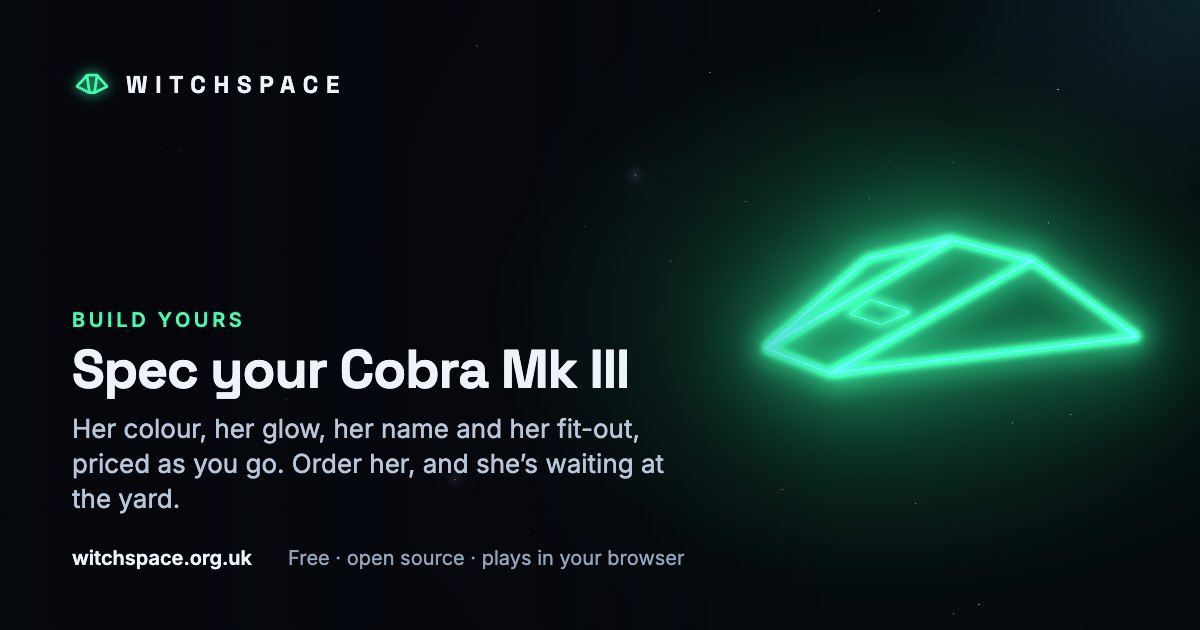
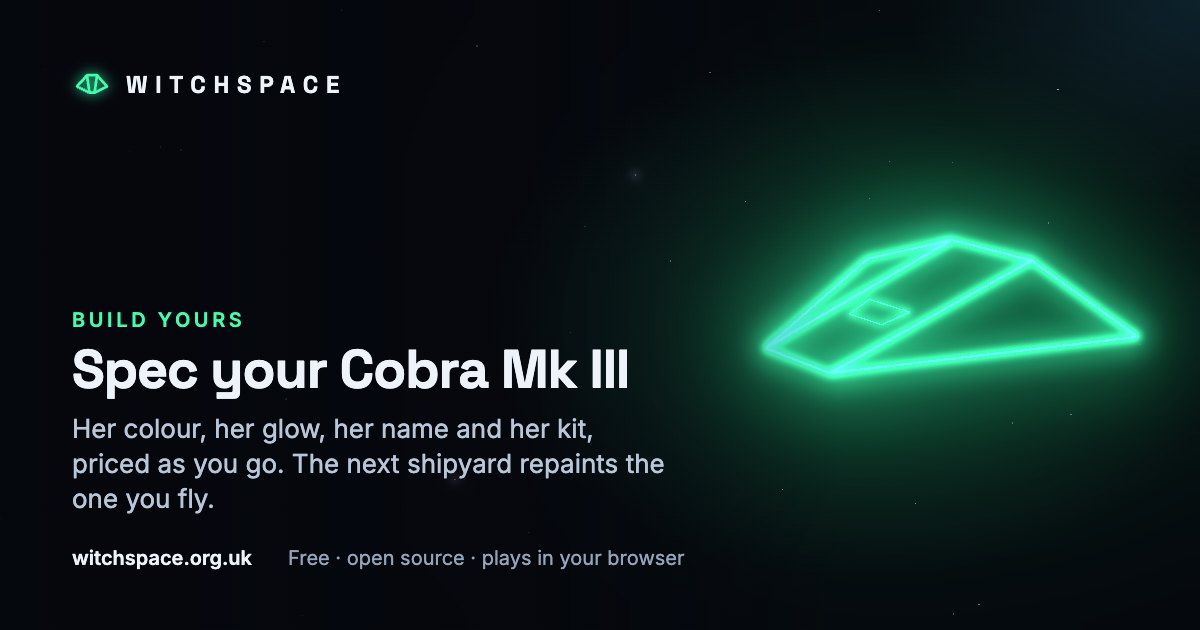
Configurator: the Cobra is a repaint at the yard's own price, kit a station shopping list; names on her papers, not painted on; on a phone she steps back as you scroll, and Fly her now has room (Mark)

Changed region(s): [[0.2467, 0.6635, 0.555, 0.754], [0.0617, 0.7841, 0.185, 0.8143]]

diff --git a/src/site/build.ts b/src/site/build.ts
@@ -1,6 +1,6 @@
 import { EDITIONS, editionNo, type Edition } from '../content/editions';
 import type { ShipDef } from '../content/types';
-import { checkSpec, cleanName, editionSpec, defaultSpec, depositFor, fitScale, GLOWS, LUXURIES, ORDERABLE, ORDERABLE_LUXURIES, standardKit, PALETTE, priceLines, productionHours, quote, TRIM_PRICE, UPGRADES, type GlowId, type Spec } from '../game/shipyard';
+import { checkSpec, cleanName, editionSpec, defaultSpec, depositFor, fitScale, GLOWS, LUXURIES, ORDERABLE, ORDERABLE_LUXURIES, repaintLabour, repaintQuote, standardKit, standardLaser, PALETTE, priceLines, productionHours, quote, TRIM_PRICE, UPGRADES, type GlowId, type Spec } from '../game/shipyard';
 import { PLAYER_LASERS, type LaserId } from '../game/weapons';
 import { API, refresh, sessionToken, signedIn } from '../net/account';
 import { accountSpec, editionCounts } from '../net/shipyard';
@@ -24,6 +24,27 @@ const LASERS = Object.keys(PLAYER_LASERS) as LaserId[];
 const cr = (n: number) => `${n.toLocaleString('en-GB')} Cr`;
 const cost = (n: number) => (n ? cr(n) : 'Included');
 const colourOf = (c: string | null) => PALETTE.find((p) => p.colour === c);
+
+// --- A repaint, for the ship everyone already flies -------------------------------------------
+// Every commander starts in a Cobra Mk III (hullOf), so for her the spec is a repaint, not a new hull
+// (Mark, 12 Nov): the yard repaints the one you fly at the game's own price (repaintQuote), and the kit
+// is a shopping list for any station. The yard picks the spec up as a repaint offer (Game dev).
+const REPAINT = def.id === 'cobra-mk3';
+/** She as she leaves the factory: the repaint's starting point (the yard quotes against your actual paint). */
+const FACTORY = { colour: def.style.lineColor, glow: 'standard' as GlowId, trim: null };
+const repaintOf = (s: Spec) => repaintQuote(def, { colour: s.colour, glow: s.glow, trim: s.trim }, FACTORY);
+/** What the spec adds that a Cobra fresh from the factory hasn't got, at the station's price. */
+function kitList(s: Spec): { name: string; price: number }[] {
+  const k = fitScale(def);
+  const free = standardKit(def);
+  return [
+    ...(s.laser !== standardLaser(def) ? [{ name: PLAYER_LASERS[s.laser].name, price: PLAYER_LASERS[s.laser].price }] : []),
+    ...(s.rear ? [{ name: `${PLAYER_LASERS[s.rear].name} at the rear`, price: PLAYER_LASERS[s.rear].price }] : []),
+    ...s.upgrades.filter((id) => !free.includes(id)).map((id) => UPGRADES.find((e) => e.id === id)!).filter(Boolean).map((e) => ({ name: e.name, price: e.price })),
+    ...s.luxuries.map((id) => LUXURIES.find((l) => l.id === id)!).filter(Boolean).map((l) => ({ name: l.name, price: l.price })),
+  ].map((x) => ({ ...x, price: Math.round(x.price * k) }));
+}
+const kitTotal = (s: Spec) => kitList(s).reduce((sum, x) => sum + x.price, 0);
 
 // --- The spec, and the link that carries it -------------------------------------------------
 
@@ -159,11 +180,17 @@ function summary(s: Spec = spec): string {
 
 function orderStep(): string {
   const total = quote(def, spec);
-  return `<h2>Her name <span>painted on, 24 letters at most</span></h2>
+  const kit = kitList(spec);
+  const prices = REPAINT
+    ? `<p class="build-order-total"><span>Repaint your ${escapeHtml(def.name)}</span><b>${cr(repaintOf(spec))}</b></p>
+    ${kit.length ? `<p class="build-order-total kit"><span>Fit at any station: ${kit.map((x) => escapeHtml(x.name)).join(' · ')}</span><b>${cr(kitTotal(spec))}</b></p>` : ''}
+    <p class="build-order-new">Or a new one from the yard: ${cr(total)}. Yards don’t sell her outright yet.</p>`
+    : `<p class="build-order-total"><span>Price</span><b>${cr(total)}</b></p>`;
+  return `<h2>Her name <span>on her papers, her manual and your clips. 24 letters at most.</span></h2>
     <input class="build-name" id="build-name" maxlength="24" placeholder="Halcyon, Brass Neck, Last Orders…" value="${escapeHtml(spec.name)}" aria-label="Her name" />
     <h2>Your ${escapeHtml(def.name)}</h2>
     ${summary()}
-    <p class="build-order-total"><span>Price</span><b>${cr(total)}</b></p>
+    ${prices}
     ${def.concept ? `<p class="build-order-total"><span>Deposit, a tenth, refundable until she’s ready</span><b>${cr(depositFor(total))}</b></p>` : ''}
     <p class="connect-buttons"><button type="button" class="button primary" id="build-order">${def.concept ? 'Order her' : 'Save her for the yard'}</button> <button type="button" class="button ghost" id="build-share" data-share data-share-title="My ${escapeHtml(def.name)}">Share your spec</button></p>
     <p class="build-note" id="build-ordered">${note()}</p>
@@ -178,7 +205,7 @@ function editionView(e: Edition): string {
     <p>${escapeHtml(e.blurb)}</p>
     ${summary(editionSpec(e))}
     <p class="build-order-total"><span>Numbered 001 to ${editionNo(e.limit)}</span><b>${!n ? `${e.limit} in all` : n < e.limit ? `${n} of ${e.limit} signed over` : `All ${e.limit} signed over`}</b></p>
-    <h2>Her name <span>painted beside her number</span></h2>
+    <h2>Her name <span>beside her number, on her papers</span></h2>
     <input class="build-name" id="edition-name" maxlength="24" placeholder="Nightjar, Quiet Hours, Last Light…" value="${escapeHtml(editionName)}" aria-label="Her name" />
     <p class="connect-buttons"><button type="button" class="button primary" id="build-share" data-share data-share-title="${escapeHtml(shareTitle(e))}">Share her</button> <a class="button ghost" href="/ships/${def.id}/${e.id}/">The ${escapeHtml(e.name)}, in full</a> <button type="button" class="button ghost" data-edition="">Spec your own instead</button></p>
     <p class="build-note">The maker sets everything but her name, and each one is finished by hand, in about ${days} days. If you have to ask, you can’t afford one. Special editions are by invitation: for now, the maker signs them over to the people who build Witchspace. <a href="/get-involved/">Get involved</a>.</p>`;
@@ -223,7 +250,9 @@ function note(): string {
   if (w) return `You have a${w.ship === def.id ? '' : 'nother'} ${escapeHtml(shipName(w.ship))} spec waiting at the yard${w.name ? `: “${escapeHtml(w.name)}”` : ''}. Ordering this one replaces it.`;
   return def.concept
     ? `Nothing is paid here. Dock at any shipyard and your spec is there: the deposit is one tap, in credits. ${escapeHtml(def.manufacturer ?? 'The yard')} then finish her for you, in about ${days} days. ${where}`
-    : `Nothing is paid here. Shipyards will sell the ${escapeHtml(def.name)} outright soon; your spec waits at the yard until they do. ${where}`;
+    : REPAINT
+      ? `Nothing is paid here. At the next shipyard, the yard repaints your ${escapeHtml(def.name)} in this spec. Kit is on your list at the station. ${where}`
+      : `Nothing is paid here. Shipyards will sell the ${escapeHtml(def.name)} outright soon; your spec waits at the yard until they do. ${where}`;
 }
 
 // --- Drawing it -----------------------------------------------------------------------------
@@ -261,6 +290,20 @@ function bar() {
   const next = STEPS[i + 1];
   // The spec sheet: what she costs, part by part, as tiles (on a phone, just the total).
   const n = (x: number) => x.toLocaleString('en-GB');
+  if (REPAINT) {
+    const labour = repaintLabour(def, spec.glow);
+    const repaint = repaintOf(spec);
+    $('#build-bar').innerHTML = `<div class="build-bar-in">
+    <dl class="build-sheet">
+      <div class="part"><dt>Yard labour</dt><dd>${n(labour)}</dd></div>
+      <div class="part"><dt>Finish</dt><dd>${n(repaint - labour)}</dd></div>
+      <div class="part"><dt>Kit, at a station</dt><dd>${n(kitTotal(spec))}</dd></div>
+      <div class="total"><dt>Repaint your ${escapeHtml(def.name)}</dt><dd>${cr(repaint)}</dd></div>
+    </dl>
+    ${next ? `<button type="button" class="button primary" data-step="${next[0]}">${next[1]} →</button>` : ''}
+  </div>`;
+    return;
+  }
   $('#build-bar').innerHTML = `<div class="build-bar-in">
     <dl class="build-sheet">
       <div class="part"><dt>Hull</dt><dd>${n(p.hull)}</dd></div>
@@ -271,6 +314,16 @@ function bar() {
     ${next ? `<button type="button" class="button primary" data-step="${next[0]}">${next[1]} →</button>` : ''}
   </div>`;
 }
+
+// On a phone, she steps back a little while you scroll through the choices, and comes back at the top or on a new step.
+const page = $('.build-page');
+const phone = matchMedia('(max-width: 860px)');
+let from = 0;
+function stage(reset = false) {
+  if (reset) from = scrollY;
+  page.classList.toggle('shrunk', phone.matches && scrollY > 40 && scrollY - from > 60);
+}
+addEventListener('scroll', () => stage(), { passive: true });
 
 function render() {
   $('#build-models').innerHTML = models();
@@ -314,6 +367,9 @@ document.addEventListener('click', (e) => {
     step = d.step as Step;
     render();
     if (b.closest('#build-bar')) $('#build-steps').scrollIntoView({ behavior: 'smooth', block: 'start' });
+    // A new step: she's back to full size until you scroll on through it (after the smooth scroll settles).
+    stage(true);
+    setTimeout(() => stage(true), 600);
   } else if (d.colour) change(() => (spec.colour = d.colour!));
   else if (d.trim) change(() => (spec.trim = d.trim!));
   else if (d.twoTone !== undefined) change(() => (spec.trim = d.twoTone ? (spec.trim ?? ORDERABLE.find((p) => p.colour !== spec.colour)!.colour) : null));
@@ -382,6 +438,12 @@ async function order() {
     return;
   }
   const total = quote(def, spec);
+  if (REPAINT) {
+    say.innerHTML = `<b>Saved for the yard.</b> At the next shipyard, the yard repaints your ${escapeHtml(def.name)} in this spec. Kit is on your list at the station.${account ? ' It’s waiting on any device you’re signed in on.' : signedIn() ? ' It’s in this browser; your account didn’t answer, so save again later to have it on your other devices too.' : ' It’s in this browser. Sign in below to have it on your other devices too.'}`;
+    say.classList.add('done');
+    button.textContent = 'Saved ✓';
+    return;
+  }
   say.innerHTML = `<b>She’s on order.</b> Dock at any shipyard${def.concept ? ` and your ${escapeHtml(def.name)} is waiting for your deposit of ${cr(depositFor(total))}` : ' and your spec is waiting'}${account ? ', on any device you’re signed in on' : signedIn() ? ', in this browser. Your account didn’t answer, so order again later to have her waiting on your other devices too' : ', in this browser. Sign in below to have her waiting on your other devices too'}.`;
   say.classList.add('done');
   button.textContent = 'Ordered ✓';
@@ -406,7 +468,7 @@ if (MINE.length)
     });
 
 // Signed in: what's waiting on your account, and a sign-in box on the order step for everyone else.
-const box = signInBox($('#account'), { why: 'Signed in, your order reaches the game on every device, the Home Screen app included.', callsignWhy: 'it’s how other pilots know you.' }, () => void account());
+const box = signInBox($('#account'), { why: `Signed in, your ${REPAINT ? 'spec' : 'order'} reaches the game on every device, the Home Screen app included.`, callsignWhy: 'it’s how other pilots know you.' }, () => void account());
 
 async function account() {
   if (signedIn()) {

diff --git a/tools/ships.ts b/tools/ships.ts
@@ -525,7 +525,7 @@ function editionsCard(editions: EditionCard[], ship: string): string {
         <div><dt>Fitted</dt><dd>${e.fit.map(esc).join(', ')}</dd></div>
         <div><dt>Aboard</dt><dd>${e.luxuries.map(esc).join(', ')}</dd></div>
       </dl>
-      <p class="edition-count" data-edition="${esc(e.id)}" data-limit="${e.limit}">Numbered 001 to ${String(e.limit).padStart(3, '0')}, each painted beside its name.</p>
+      <p class="edition-count" data-edition="${esc(e.id)}" data-limit="${e.limit}">Numbered 001 to ${String(e.limit).padStart(3, '0')}, each beside her name on her papers.</p>
       <p class="edition-price"><b>By invitation</b> · signed over to the people who build Witchspace.</p>
       <p class="edition-see"><a class="button ghost small" href="/ships/${esc(ship)}/${esc(e.id)}/">See the ${esc(e.name)} →</a> <a class="button ghost small" href="/ships/${esc(ship)}/build/#edition=${esc(e.id)}">Name yours</a></p>
     </article>`,
@@ -578,11 +578,15 @@ export function manualPage(s: ShipFile, m: ManualData) {
 /** The configurator: spec her as you would a new car, then order her for the yard (docs/design/ship-configurator.md). The choices and prices come from the game's own code (src/site/build.ts). */
 export function buildPage(s: ShipFile, names: Record<string, string>) {
   const def = JSON.stringify(s).replace(/</g, '\\u003c');
+  // Every commander already flies a Cobra Mk III, so hers is a repaint (Mark, 12 Nov; src/site/build.ts REPAINT).
+  const repaint = s.id === 'cobra-mk3';
   return {
-    card: { ship: s.id, kicker: 'Build yours', title: `Spec your ${s.name}`, sub: 'Her colour, her glow, her name and her fit-out, priced as you go. Order her, and she’s waiting at the yard.' },
+    card: { ship: s.id, kicker: 'Build yours', title: `Spec your ${s.name}`, sub: repaint ? 'Her colour, her glow, her name and her kit, priced as you go. The next shipyard repaints the one you fly.' : 'Her colour, her glow, her name and her fit-out, priced as you go. Order her, and she’s waiting at the yard.' },
     schema: [{ '@type': 'WebApplication', name: `${s.name} configurator`, applicationCategory: 'GameApplication', about: { '@type': 'CreativeWork', name: s.name, url: `https://witchspace.org.uk/ships/${s.id}/` }, isPartOf: { '@type': 'VideoGame', name: 'Witchspace', url: 'https://witchspace.org.uk/play/' } }],
     title: `Build your ${s.name} · Ships · Witchspace`,
-    description: `Spec your own ${s.name}: her colour, glow, trim, name and fit-out, priced as you go. Order her, and the shipyard has her ready for your deposit when you next dock.`,
+    description: repaint
+      ? `Spec your own ${s.name}: her colour, glow, trim, name and kit, priced as you go. Every commander flies one, so the next shipyard repaints yours in this spec.`
+      : `Spec your own ${s.name}: her colour, glow, trim, name and fit-out, priced as you go. Order her, and the shipyard has her ready for your deposit when you next dock.`,
     content: `<section class="section ship-page build-page" style="--hull:${esc(s.style?.lineColor ?? '#7fd4ff')}">
   <a class="back" href="/ships/${esc(s.id)}/">← The ${esc(s.name)}</a>
   <div class="build">
@@ -597,7 +601,7 @@ export function buildPage(s: ShipFile, names: Record<string, string>) {
     <div class="build-panel">
       <p class="kicker">${esc(roleLine(s))}</p>
       <h1>Spec your ${esc(s.name)}</h1>
-      <p class="lede">${s.concept ? `${esc(s.manufacturer ?? 'Her makers')} build her to order. Spec her here, and the deposit is one tap at the next shipyard you dock at.` : `Spec her here, and she’s waiting at the next shipyard you dock at.`}</p>
+      <p class="lede">${s.concept ? `${esc(s.manufacturer ?? 'Her makers')} build her to order. Spec her here, and the deposit is one tap at the next shipyard you dock at.` : repaint ? `You already fly one. Spec her here, and the next shipyard you dock at repaints her in it.` : `Spec her here, and she’s waiting at the next shipyard you dock at.`}</p>
       <div id="build-models"></div>
       <nav class="build-steps" id="build-steps" aria-label="Steps"></nav>
       <div id="build-options"></div>
@@ -651,7 +655,7 @@ export function editionPage(s: ShipFile, e: EditionCard, others: EditionCard[]) 
     <section class="card edition-number">
       <p class="kicker">One of ${e.limit}</p>
       <h2 data-edition-count="${esc(e.id)}">Numbered 001 to ${no(e.limit)}</h2>
-      <p>Each one carries its number painted beside its name, from 001 to ${no(e.limit)}. Numbers are given out in order by the yard’s office, for the whole galaxy: when they’re gone, they’re gone.</p>
+      <p>Each one carries her number beside her name on her papers, from 001 to ${no(e.limit)}. Numbers are given out in order by the yard’s office, for the whole galaxy: when they’re gone, they’re gone.</p>
     </section>
     <section class="card">
       <p class="kicker">The finish</p>
@@ -718,7 +722,7 @@ export function papersPage(s: ShipFile, e: EditionCard) {
     <p class="papers-state" id="papers-state">Reading her papers…</p>
     <dl class="papers-rows" id="papers-rows" hidden></dl>
     <footer class="papers-foot" id="papers-foot" hidden>
-      <p class="papers-one">One of ${e.limit}. The number is painted beside her name, and no other ship will carry it.</p>
+      <p class="papers-one">One of ${e.limit}. Her number stands beside her name, and no other ship will carry it.</p>
       <p class="papers-sign">Signed for the yard: <b>${esc(maker)}</b><span id="papers-yard"></span></p>
     </footer>
   </article>

diff --git a/src/site/site.css b/src/site/site.css
@@ -1038,10 +1038,12 @@ button.button { cursor: pointer; }
 .build-summary dt { color: var(--muted); font: 600 12px var(--hud); letter-spacing: 0.16em; text-transform: uppercase; }
 .build-summary dd { margin: 2px 0 0; }
 .build-dot { display: inline-block; width: 10px; height: 10px; margin-right: 8px; background: var(--sw); box-shadow: 0 0 8px var(--sw); }
-.build-order-total { display: flex; justify-content: space-between; gap: 12px; margin: 14px 0 0; padding-top: 12px; border-top: 1px solid var(--edge); }
+.build-order-total { display: flex; align-items: baseline; justify-content: space-between; gap: 12px; margin: 14px 0 0; padding-top: 12px; border-top: 1px solid var(--edge); }
 .build-order-total span { color: var(--muted); }
 .build-order-total b { white-space: nowrap; font: 700 20px var(--hud); color: var(--hull); }
 .build-panel .connect-buttons { display: flex; flex-wrap: wrap; gap: 10px; margin-top: 18px; }
+.build-order-total.kit b { color: var(--fg); font-size: 17px; }
+.build-order-new { margin: 10px 0 0; color: var(--muted); font-size: 14px; }
 .build-fly { margin: 24px 0 0; padding-top: 20px; border-top: 1px solid var(--edge); }
 /* Your own spec, or a numbered edition: the first choice. */
 .build-models { display: flex; flex-wrap: wrap; gap: 6px; margin: 20px 0 0; }
@@ -1068,8 +1070,12 @@ button.button { cursor: pointer; }
   .build { grid-template-columns: minmax(0, 1fr); gap: 14px; }
   /* The ship is the hero: edge to edge, about 42% of the screen, and she stays in sight as you choose. */
   .build-stage { top: 64px; z-index: 2; margin: 0 calc(-1 * var(--gutter)); background: var(--bg); }
-  .build .build-view { aspect-ratio: auto; height: 42svh; min-height: 260px; border-left: 0; border-right: 0; }
+  .build-page { --stage: 42svh; }
+  /* Scrolling through the choices, she steps back a little so more of them fit (Mark); full size at the top or on a new step. */
+  .build-page.shrunk { --stage: 28svh; }
+  .build .build-view { aspect-ratio: auto; height: var(--stage); min-height: 180px; border-left: 0; border-right: 0; transition: height 0.3s ease, box-shadow 0.4s, border-color 0.4s; }
   .build-steps { scroll-margin-top: calc(64px + 42svh + 10px); }
+  .build-fly { margin-top: 32px; padding-top: 28px; padding-bottom: 12px; }
   .build-steps button { flex: 0 0 auto; }
   .build-sheet .part { display: none; }
   .build-bar-buttons .button { padding-left: 14px; padding-right: 14px; }

diff --git a/src/site/ship.ts b/src/site/ship.ts
@@ -58,7 +58,7 @@ if (counts.length)
         // Signed over to contributors, not sold: how many the maker has given (Mark).
         const given = Math.min(e.taken, e.limit);
         if (!given) continue;
-        el.innerHTML = given < e.limit ? `<b>${given} of ${e.limit} signed over.</b> Numbered 001 to ${String(e.limit).padStart(3, '0')}, each painted beside its name.` : `<b>All ${e.limit} signed over.</b> Every one numbered, and every one given.`;
+        el.innerHTML = given < e.limit ? `<b>${given} of ${e.limit} signed over.</b> Numbered 001 to ${String(e.limit).padStart(3, '0')}, each beside her name on her papers.` : `<b>All ${e.limit} signed over.</b> Every one numbered, and every one given.`;
         el.classList.toggle('gone', given >= e.limit);
       }
     } catch {

diff --git a/src/site/papers.ts b/src/site/papers.ts
@@ -245,7 +245,7 @@ async function save(p: Papers) {
   y = H - 150;
   c.fillStyle = muted;
   c.font = `italic 400 24px ${body}`;
-  c.fillText(`One of ${p.limit}. The number is painted beside her name, and no other ship will carry it.`, W / 2, y, W - 160);
+  c.fillText(`One of ${p.limit}. Her number stands beside her name, and no other ship will carry it.`, W / 2, y, W - 160);
   y += 50;
   c.fillStyle = fg;
   c.font = `400 26px ${body}`;
